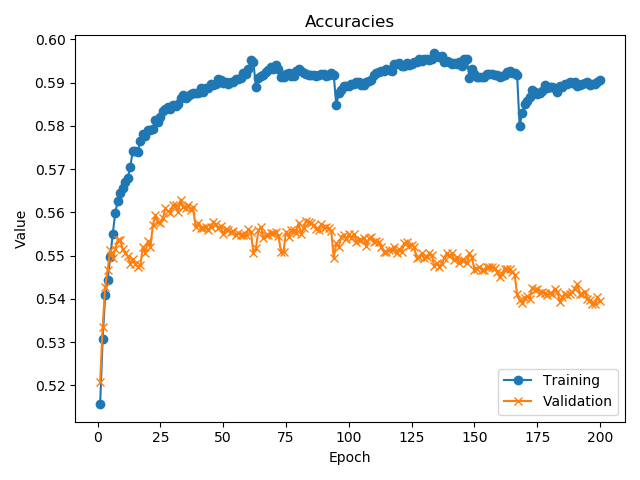
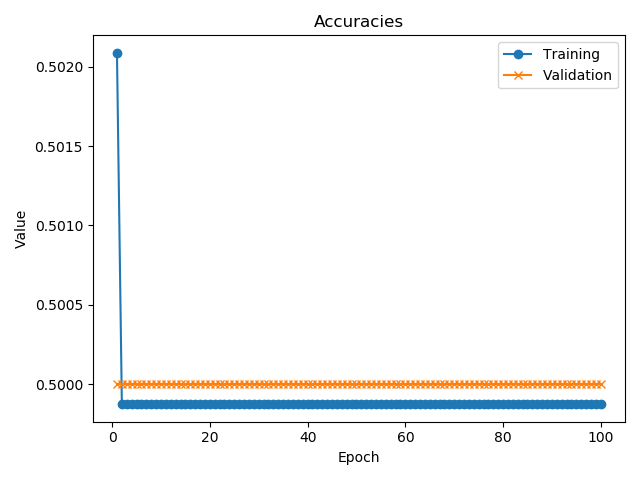
hypernode2vec experiments

diff --git a/main.py b/main.py
@@ -1,34 +1,24 @@
 import os
-import sys
-from itertools import combinations
-from distutils.util import strtobool
+from gensim.models import KeyedVectors
+from tqdm import tqdm, trange
 
-import numpy as np
-import pandas as pd
 import torch
 import torch.nn as nn
 import torch.optim as optim
 from torch.utils.data import DataLoader
 
-from gensim.models import KeyedVectors
-from tqdm import tqdm, trange
-
-from hypergraph import HyperGraph
-from utils import load_data, embed_nodes, plot_values
+from utils import load_data, plot_values
 from dataset import QueryDataset
 from model import SimpleNN
 
+device = torch.device("cuda:1" if torch.cuda.is_available() else "cpu")
 
-LOAD_PRETRAINED = False
-RESULT_DIR = './result'
-
-
-def train(model, train_set, val_set, criterion, optimizer, max_epochs):
+def train(model, train_set, val_set, criterion, optimizer, batch_size, max_epochs):
     train_losses, val_losses = [], []
     train_accuracies, val_accuracies = [], []
 
-    train_loader = DataLoader(train_set, batch_size=32, num_workers=2)
-    val_loader = DataLoader(val_set, batch_size=32, num_workers=2)
+    train_loader = DataLoader(train_set, batch_size=batch_size, num_workers=2)
+    val_loader = DataLoader(val_set, batch_size=batch_size, num_workers=2)
 
     loss_log = tqdm(total=0, bar_format='{desc}', position=3)
     acc_log = tqdm(total=0, bar_format='{desc}', position=4)
@@ -37,10 +27,12 @@ def train(model, train_set, val_set, criterion, optimizer, max_epochs):
         train_loss, train_acc = [], []
         model.train()
         for queries, labels in tqdm(train_loader, desc="Training Iteration", position=1):
+            queries, labels = queries.to(device), labels.to(device)
             optimizer.zero_grad()
             scores = model(queries)
             loss = criterion(scores, labels)
             loss.backward()
+            torch.nn.utils.clip_grad_value_(model.parameters(), 1.0)
             optimizer.step()
             
             _, pred = torch.max(scores.data, dim=1)
@@ -62,6 +54,7 @@ def train(model, train_set, val_set, criterion, optimizer, max_epochs):
         model.eval()
         with torch.no_grad():
             for queries, labels in tqdm(val_loader, desc="Validation Iteration", position=1):
+                queries, labels = queries.to(device), labels.to(device)
                 scores = model(queries)
                 loss = criterion(scores, labels)
 
@@ -83,56 +76,60 @@ def train(model, train_set, val_set, criterion, optimizer, max_epochs):
     return train_losses, val_losses, train_accuracies, val_accuracies
 
 
-if __name__ == "__main__":
-    if not os.path.isdir(RESULT_DIR):
-        os.mkdir(RESULT_DIR)
+def predict(model, test_set):
+    pass
 
-    graph_data = './project_data/paper_author.txt'
+
+if __name__ == "__main__":
     query_data = './project_data/query_public.txt'
     label_data = './project_data/answer_public.txt'
     test_data = './project_data/query_private.txt'
 
     # Hyperparameters
-    learning_rate = 1e-3
-    num_epochs = 200
-    p, q, p1, q1 = 1, 1, 1, 1
-    setting = "hypernode2vec_p("+str(p)+")q("+str(q)+")_p1("+str(p1)+")p2("+str(q1)+")"
-    # setting = "node2vec_p("+str(p)+")q("+str(q)+")"
-    pretrained_kv_path = "./kvs/"+setting+".kv"
-    pretrained_model_path = "./models/"+setting+".pth"
+    learning_rate = 1e-6
+    batch_size = 32
+    num_epochs = 100
+    p, p1 = 1, 1
+    for q in [0.5, 1, 2]:
+        for q1 in [0.5, 1, 2]:
+            if q == 2 and q1 == 0.5:    # skip this config
+                continue
+            print(f"Running p: {p}, q: {q}, p1: {p1}, q1: {q1}...")
 
-    # Load pretrained vectors, otherwise create a new graph
-    if os.path.exists(pretrained_kv_path):
-        print("Loading pretrained keyed vectors...")
-        node_vectors = KeyedVectors.load(pretrained_kv_path, mmap='r')
-    else:
-        # TODO: check if we want to create hypernode2vec or node2vec graph
-        print("Creating node2vec graph...")
-        node_vectors = embed_nodes(graph_data, p=p, q=q)
+            setting = "hypernode2vec_p("+str(p)+")q("+str(q)+")_p1("+str(p1)+")p2("+str(q1)+")"
+            # setting = "node2vec_p("+str(p)+")q("+str(q)+")"
+            pretrained_kv_path = "./kvs/"+setting+".kv"
+            pretrained_model_path = "./models/"+setting+".pth"
 
-    # Split and Shuffle Data
-    query_train, query_val, label_train, label_val = load_data(query_data, label_data, node_vectors)
-    train_set = QueryDataset(query_train, label_train)
-    val_set = QueryDataset(query_val, label_val)
+            # Load pretrained vectors
+            print("Loading pretrained keyed vectors...")
+            node_vectors = KeyedVectors.load(pretrained_kv_path, mmap='r')
 
-    # Load pretrained model, otherwise train parameters
-    model = SimpleNN()
-    if os.path.exists(pretrained_model_path):
-        print("Loading pretrained model...")
-        model.load_state_dict(torch.load(pretrained_model_path), strict=False)
-    else:
-        criterion = nn.CrossEntropyLoss()
-        optimizer = optim.Adam(model.parameters(), lr=learning_rate)
-        train_losses, val_losses, train_accuracies, val_accuracies = train(model, train_set, val_set, criterion, optimizer, max_epochs=num_epochs)
-        torch.save(model.state_dict(), pretrained_model_path)
+            # Preprocess, Split, Shuffle Data
+            query_train, query_val, label_train, label_val = load_data(query_data, label_data, node_vectors)
+            train_set = QueryDataset(query_train, label_train)
+            val_set = QueryDataset(query_val, label_val)
 
-        print("Final training loss: {:06.4f}".format(train_losses[-1]))
-        print("Final validation loss: {:06.4f}".format(val_losses[-1]))
-        print("Final training accuracy: {:06.4f}".format(train_accuracies[-1]))
-        print("Final validation accuracy: {:06.4f}".format(val_accuracies[-1]))
+            # Load pretrained model, otherwise train parameters
+            model = SimpleNN()
+            if os.path.exists(pretrained_model_path):
+                print("Loading pretrained model...")
+                model.load_state_dict(torch.load(pretrained_model_path), strict=False)
+            else:
+                criterion = nn.CrossEntropyLoss()
+                optimizer = optim.Adam(model.parameters(), lr=learning_rate)
+                model.to(device)
+                print("Running on:", device)
+                train_losses, val_losses, train_accuracies, val_accuracies = train(model, train_set, val_set, criterion, optimizer, batch_size, num_epochs)
+                torch.save(model.state_dict(), pretrained_model_path)
 
-        plot_values(train_losses, val_losses, title="Losses", path="./losses/"+setting+"_loss.png")
-        plot_values(train_accuracies, val_accuracies, title="Accuracies", path="./accuracies/"+setting+"_acc.png")
+                print("Final training loss: {:06.4f}".format(train_losses[-1]))
+                print("Final validation loss: {:06.4f}".format(val_losses[-1]))
+                print("Final training accuracy: {:06.4f}".format(train_accuracies[-1]))
+                print("Final validation accuracy: {:06.4f}".format(val_accuracies[-1]))
+
+                plot_values(train_losses, val_losses, title="Losses", path="./losses/"+setting+"_loss.png")
+                plot_values(train_accuracies, val_accuracies, title="Accuracies", path="./accuracies/"+setting+"_acc.png")
 
     # TODO: Predict test data  ## save to answer_private.txt
-    # predict(test_data)
+    # predict(model, test_data)

diff --git a/utils.py b/utils.py
@@ -1,14 +1,10 @@
-from itertools import combinations
 from distutils.util import strtobool
-import sys
 
-import networkx as nx
 import matplotlib.pyplot as plt
 import torch
 from sklearn.model_selection import train_test_split
 # from sklearn.manifold import TSNE
 # from sklearn.cluster import KMeans
-from node2vec.node2vec.node2vec import Node2Vec
 
 
 def load_data(query_file, label_file, node_vectors):
@@ -41,9 +37,9 @@ def load_data(query_file, label_file, node_vectors):
             query_vec.append(torch.empty([1, input_dim]))   # TODO: or maybe give a zero vector
         
         query_vec = torch.stack(query_vec, dim=0)
-        # q = torch.mean(query_vec, dim=0)    # method#1: column-wise average
-        # q = torch.prod(query_vec, dim=0)    # method#2: hadamard
-        q = torch.norm(query_vec, dim=0)      # method#3: frobenius norm
+        q = torch.mean(query_vec, dim=0)        # method#1: column-wise average
+        # q = torch.prod(query_vec, dim=0)      # method#2: hadamard
+        # q = torch.norm(query_vec, dim=0)      # method#3: frobenius norm
         Q.append(q)
 
     Q = torch.stack(Q, dim=0)
@@ -57,45 +53,6 @@ def load_data(query_file, label_file, node_vectors):
     lf.close()
 
     return query_train, query_val, label_train, label_val
-
-
-def embed_nodes(graph_file, p=1, q=1):
-    lines = open(graph_file, 'r').readlines()
-    lineiter = iter(lines)
-    line1 = next(lineiter)
-    num_authors, num_pubs = list(map(int, line1.strip().split()))
-
-    G = nx.Graph()
-    nodes, edges = set(), set()
-
-    # one pass through paper_author.txt to get all authors->nodes and collaborations->edges
-    for _ in range(num_pubs):
-        linei = next(lineiter)
-        authors = list(map(int, linei.strip().split()))
-        nodes.update(authors)
-        for combo in combinations(authors, 2):  # combinations find all pairs of author collaborations
-            edges.add(tuple(sorted(combo)))     # sorting makes sure undirected edges are not double counted
-    
-    graph_file.close()
-
-    G.add_nodes_from(nodes)
-    G.add_edges_from(edges)
-
-    node2vec = Node2Vec(graph=G,
-                        dimensions=64,
-                        walk_length=10,
-                        num_walks=100,
-                        p=p,
-                        q=q,
-                        workers=2)
-    model = node2vec.fit(window=10, min_count=1)
-    node_vectors = model.wv
-    model.save("./node2vec_kvs/node2vec_p("+str(p)+")q("+str(q)+").model")    # save model in case of more training later
-    model.wv.save("./node2vec_kvs/node2vec_p("+str(p)+")q("+str(q)+").kv")    # keyed vectors for later use save memory by not loading entire model
-    del model   # save memory during computation
-    del G                           
-
-    return node_vectors
 
 
 def plot_values(train_values, val_values, title, path):

diff --git a/gen_n2v_kv.py b/gen_n2v_kv.py
@@ -1,0 +1,53 @@
+import os
+from itertools import combinations
+
+import networkx as nx
+from node2vec import Node2Vec
+
+
+def embed_nodes(graph_file, kv_path, p=1, q=1):
+    lines = open(graph_file, 'r').readlines()
+    lineiter = iter(lines)
+    line1 = next(lineiter)
+    num_authors, num_pubs = list(map(int, line1.strip().split()))
+
+    G = nx.Graph()
+    nodes, edges = set(), set()
+
+    # one pass through paper_author.txt to get all authors->nodes and collaborations->edges
+    for _ in range(num_pubs):
+        linei = next(lineiter)
+        authors = list(map(int, linei.strip().split()))
+        nodes.update(authors)
+        for combo in combinations(authors, 2):  # combinations find all pairs of author collaborations
+            edges.add(tuple(sorted(combo)))     # sorting makes sure undirected edges are not double counted
+    
+    graph_file.close()
+
+    G.add_nodes_from(nodes)
+    G.add_edges_from(edges)
+
+    node2vec = Node2Vec(graph=G,
+                        dimensions=64,
+                        walk_length=10,
+                        num_walks=100,
+                        p=p,
+                        q=q,
+                        workers=2)
+    model = node2vec.fit(window=10, min_count=1)
+    # node_vectors = model.wv
+    # model.save("./kvs/node2vec_p("+str(p)+")q("+str(q)+").model")    # save model in case of more training later
+    model.wv.save(kv_path)    # keyed vectors for later use save memory by not loading entire model
+    del model   # save memory during computation
+    del G                           
+
+
+if __name__ == "__main__":
+    graph_data = './project_data/paper_author.txt'
+    p, q = 1, 1     # set hyperparameters p and q
+    kv_path = "./kvs/node2vec_p("+str(p)+")q("+str(q)+").kv"
+    if os.path.exists(kv_path):
+        print("Keyed vectors already exist at", kv_path)
+    else:
+        print("Creating node2vec graph...")
+        embed_nodes(graph_data, kv_path, p=p, q=q)

diff --git a/README.md b/README.md
@@ -1,16 +1,23 @@
 # AI506_TP
 
-
-
-To download dependencies
+To download dependencies and activate conda environment:
 
     conda env create -f env.yml
-    
-To generate keyed vector
+    conda activate ai506tp
+
+To generate Node2Vec keyed vectors:
+
+    python gen_n2v_kv.py
+
+To generate HyperNode2Vec keyed vectors:
     
     python gen_kv.py
+
+To train classifier1 and evaluate:
+
+    python main.py
     
-To train classifier and evaluate
+To train classifier2 and evaluate:
     
     python classify.py
     (change filename of keyed vector and directory...)
